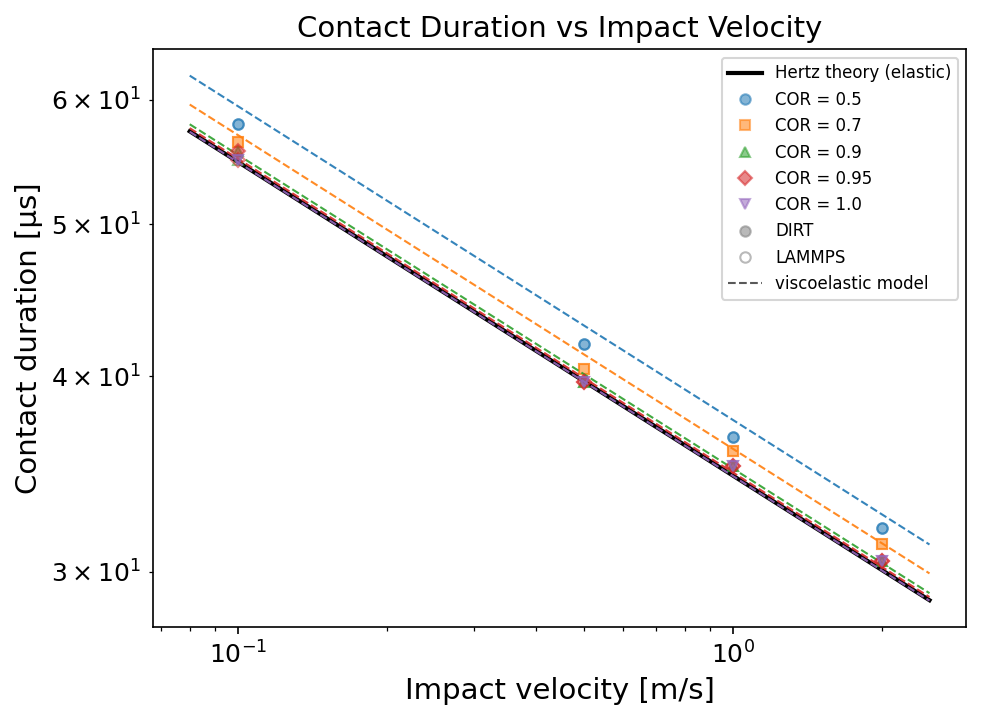
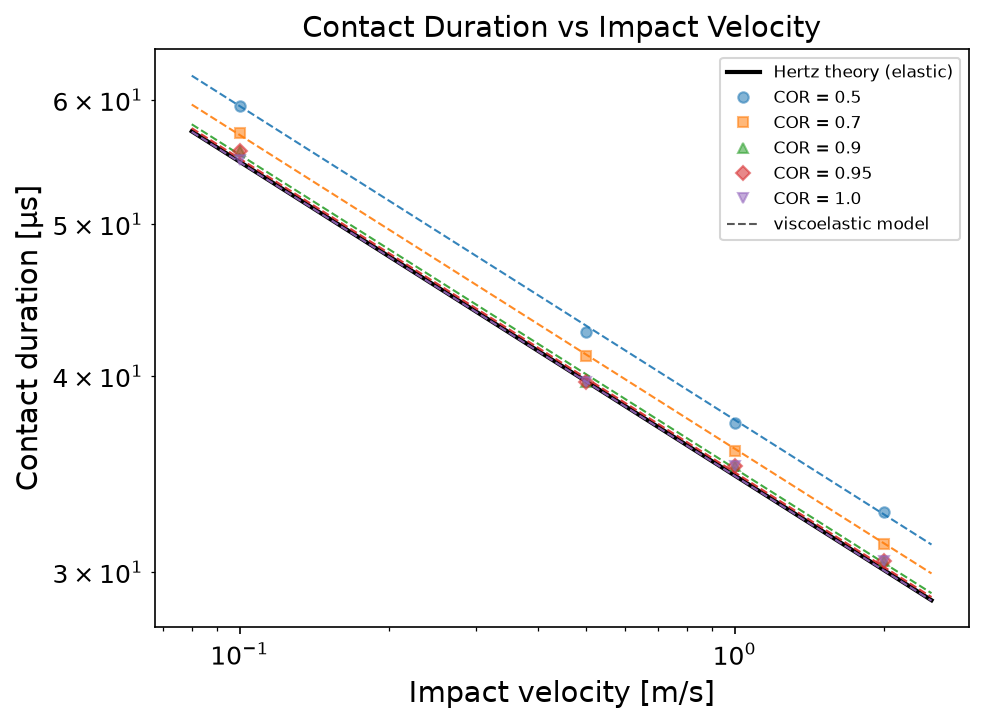
benchmarks: pass precision-double in sweep.py drivers
The sweep.py drivers build with --no-default-features (to drop MPI for
single-process runs), which also dropped dirt's default precision-double, so
soil_core compiled with no precision feature and failed (a latent issue masked
before by mixed github/gitea deps pulling soil_core with its default features).
Restore precision-double explicitly across all 23 benchmark drivers.

Verified: bench_hertz_rebound runs end-to-end, 46/46 checks PASS.

Changed region(s): [[0.0, 0.0611, 1.0, 0.9167], [0.3058, 0.0, 1.0, 0.4278], [0.3976, 0.9472, 0.7339, 0.9778]]

diff --git a/examples/bench_oblique_impact/sweep.py b/examples/bench_oblique_impact/sweep.py
@@ -245,7 +245,7 @@ def _run_dirt(cdir, trace=False):
     log = os.path.join(cdir, "run.log")
     with open(log, "w") as lf:
         proc = subprocess.run(
-            ["cargo", "run", "--release", "--example", EXAMPLE, "--no-default-features", "--", config],
+            ["cargo", "run", "--release", "--example", EXAMPLE, "--no-default-features", "--features", "precision-double", "--", config],
             cwd=REPO_ROOT, stdout=lf, stderr=subprocess.STDOUT, env=env,
         )
     if proc.returncode != 0 or not os.path.isfile(res):
@@ -333,7 +333,7 @@ def _write_csv(path, fields, rows):
 def start():
     os.makedirs(DATA_DIR, exist_ok=True)
     print(f"Building {EXAMPLE} (release)...", flush=True)
-    subprocess.run(["cargo", "build", "--release", "--example", EXAMPLE, "--no-default-features"],
+    subprocess.run(["cargo", "build", "--release", "--example", EXAMPLE, "--no-default-features", "--features", "precision-double"],
                    cwd=REPO_ROOT, check=True)
 
     lammps = find_lammps()

diff --git a/examples/bench_fiber_crossover/sweep.py b/examples/bench_fiber_crossover/sweep.py
@@ -248,7 +248,7 @@ def _run_dirt(cdir):
     with open(log, "w") as lf:
         proc = subprocess.run(
             ["cargo", "run", "--release", "--example", EXAMPLE,
-             "--no-default-features", "--", config],
+             "--no-default-features", "--features", "precision-double", "--", config],
             cwd=REPO_ROOT, stdout=lf, stderr=subprocess.STDOUT,
         )
     if proc.returncode != 0 or not os.path.isfile(res):
@@ -283,7 +283,7 @@ def start():
     os.makedirs(DATA_DIR, exist_ok=True)
     print(f"Building {EXAMPLE} (release)...", flush=True)
     subprocess.run(["cargo", "build", "--release", "--example", EXAMPLE,
-                    "--no-default-features"], cwd=REPO_ROOT, check=True)
+                    "--no-default-features", "--features", "precision-double"], cwd=REPO_ROOT, check=True)
 
     if find_lammps():
         print("LAMMPS found but not used by this benchmark (theory-only validation).")

diff --git a/examples/SPH_glass_sphere_calibration/03_angle_of_repose/sweep.py b/examples/SPH_glass_sphere_calibration/03_angle_of_repose/sweep.py
@@ -510,7 +510,7 @@ def _run_dirt(cdir):
     with open(log, "w") as lf:
         proc = subprocess.run(
             ["cargo", "run", "--release", "--example", EXAMPLE,
-             "--no-default-features", "--", config],
+             "--no-default-features", "--features", "precision-double", "--", config],
             cwd=REPO_ROOT, stdout=lf, stderr=subprocess.STDOUT,
         )
     if proc.returncode != 0 or not os.path.isfile(res):
@@ -522,7 +522,7 @@ def start():
     os.makedirs(DATA_DIR, exist_ok=True)
     print(f"Building {EXAMPLE} (release)...", flush=True)
     subprocess.run(["cargo", "build", "--release", "--example", EXAMPLE,
-                    "--no-default-features"], cwd=REPO_ROOT, check=True)
+                    "--no-default-features", "--features", "precision-double"], cwd=REPO_ROOT, check=True)
 
     print("LAMMPS: disabled for this calibration — running DIRT only.")
 

diff --git a/examples/bench_rolling_decay/sweep.py b/examples/bench_rolling_decay/sweep.py
@@ -290,7 +290,7 @@ def _run_dirt(mu_r):
     with open(log, "w") as lf:
         proc = subprocess.run(
             ["cargo", "run", "--release", "--example", EXAMPLE,
-             "--no-default-features", "--", config],
+             "--no-default-features", "--features", "precision-double", "--", config],
             cwd=REPO_ROOT, stdout=lf, stderr=subprocess.STDOUT,
         )
     if proc.returncode != 0 or not os.path.isfile(res):
@@ -361,7 +361,7 @@ def start():
     os.makedirs(DATA_DIR, exist_ok=True)
     print(f"Building {EXAMPLE} (release)...", flush=True)
     subprocess.run(["cargo", "build", "--release", "--example", EXAMPLE,
-                    "--no-default-features"], cwd=REPO_ROOT, check=True)
+                    "--no-default-features", "--features", "precision-double"], cwd=REPO_ROOT, check=True)
 
     lammps = find_lammps()
     print(f"LAMMPS: {lammps}" if lammps else

diff --git a/examples/bench_sliding_friction/sweep.py b/examples/bench_sliding_friction/sweep.py
@@ -245,7 +245,7 @@ def _run_dirt(cdir):
     with open(log, "w") as lf:
         proc = subprocess.run(
             ["cargo", "run", "--release", "--example", EXAMPLE,
-             "--no-default-features", "--", config],
+             "--no-default-features", "--features", "precision-double", "--", config],
             cwd=REPO_ROOT, stdout=lf, stderr=subprocess.STDOUT,
         )
     if proc.returncode != 0 or not os.path.isfile(res):
@@ -257,7 +257,7 @@ def start():
     os.makedirs(DATA_DIR, exist_ok=True)
     print(f"Building {EXAMPLE} (release)...", flush=True)
     subprocess.run(["cargo", "build", "--release", "--example", EXAMPLE,
-                    "--no-default-features"], cwd=REPO_ROOT, check=True)
+                    "--no-default-features", "--features", "precision-double"], cwd=REPO_ROOT, check=True)
 
     lammps = find_lammps()
     print(f"LAMMPS: {lammps}" if lammps else

diff --git a/examples/bench_angle_of_repose/sweep.py b/examples/bench_angle_of_repose/sweep.py
@@ -549,7 +549,7 @@ def _run_dirt(cdir):
     with open(log, "w") as lf:
         proc = subprocess.run(
             ["cargo", "run", "--release", "--example", EXAMPLE,
-             "--no-default-features", "--", config],
+             "--no-default-features", "--features", "precision-double", "--", config],
             cwd=REPO_ROOT, stdout=lf, stderr=subprocess.STDOUT,
         )
     if proc.returncode != 0 or not os.path.isfile(res):
@@ -561,7 +561,7 @@ def start():
     os.makedirs(DATA_DIR, exist_ok=True)
     print(f"Building {EXAMPLE} (release)...", flush=True)
     subprocess.run(["cargo", "build", "--release", "--example", EXAMPLE,
-                    "--no-default-features"], cwd=REPO_ROOT, check=True)
+                    "--no-default-features", "--features", "precision-double"], cwd=REPO_ROOT, check=True)
 
     lammps = find_lammps()
     print(f"LAMMPS: {lammps}" if lammps

diff --git a/examples/bench_hertz_rebound/sweep.py b/examples/bench_hertz_rebound/sweep.py
@@ -350,7 +350,7 @@ def start():
 
     print(f"Building {EXAMPLE} (release)...", flush=True)
     subprocess.run(
-        ["cargo", "build", "--release", "--example", EXAMPLE, "--no-default-features"],
+        ["cargo", "build", "--release", "--example", EXAMPLE, "--no-default-features", "--features", "precision-double"],
         cwd=REPO_ROOT, check=True,
     )
 
@@ -374,7 +374,7 @@ def start():
             with open(dirt_log, "w") as log:
                 proc = subprocess.run(
                     ["cargo", "run", "--release", "--example", EXAMPLE,
-                     "--no-default-features", "--", config],
+                     "--no-default-features", "--features", "precision-double", "--", config],
                     cwd=REPO_ROOT, stdout=log, stderr=subprocess.STDOUT,
                 )
             dirt_csv = os.path.join(cdir, "data", "rebound_results.csv")

diff --git a/examples/bench_plate_sinkage/sweep.py b/examples/bench_plate_sinkage/sweep.py
@@ -394,7 +394,7 @@ def _run_dirt(cdir):
     with open(log, "w") as lf:
         proc = subprocess.run(
             ["cargo", "run", "--release", "--example", EXAMPLE,
-             "--no-default-features", "--", config],
+             "--no-default-features", "--features", "precision-double", "--", config],
             cwd=REPO_ROOT, stdout=lf, stderr=subprocess.STDOUT,
         )
     if proc.returncode != 0 or not os.path.isfile(res):
@@ -506,7 +506,7 @@ def start():
     os.makedirs(DATA_DIR, exist_ok=True)
     print(f"Building {EXAMPLE} (release)...", flush=True)
     subprocess.run(
-        ["cargo", "build", "--release", "--example", EXAMPLE, "--no-default-features"],
+        ["cargo", "build", "--release", "--example", EXAMPLE, "--no-default-features", "--features", "precision-double"],
         cwd=REPO_ROOT, check=True,
     )
 

diff --git a/examples/SPH_glass_sphere_calibration/05_cooling_dissipation/sweep.py b/examples/SPH_glass_sphere_calibration/05_cooling_dissipation/sweep.py
@@ -179,7 +179,7 @@ def start():
     os.makedirs(DATA_DIR, exist_ok=True)
     print(f"Building {EXAMPLE} (release)...", flush=True)
     subprocess.run(
-        ["cargo", "build", "--release", "--example", EXAMPLE, "--no-default-features"],
+        ["cargo", "build", "--release", "--example", EXAMPLE, "--no-default-features", "--features", "precision-double"],
         cwd=REPO_ROOT, check=True,
     )
 
@@ -190,7 +190,7 @@ def start():
     with open(log, "w") as lf:
         proc = subprocess.run(
             ["cargo", "run", "--release", "--example", EXAMPLE,
-             "--no-default-features", "--", CONFIG],
+             "--no-default-features", "--features", "precision-double", "--", CONFIG],
             cwd=REPO_ROOT, stdout=lf, stderr=subprocess.STDOUT,
         )
     if proc.returncode != 0 or not os.path.isfile(DIRT_CSV):

diff --git a/examples/bench_clump_haff_cooling/sweep.py b/examples/bench_clump_haff_cooling/sweep.py
@@ -211,7 +211,7 @@ def start():
     os.makedirs(DATA_DIR, exist_ok=True)
     print(f"Building {EXAMPLE} (release)...", flush=True)
     subprocess.run(
-        ["cargo", "build", "--release", "--example", EXAMPLE, "--no-default-features"],
+        ["cargo", "build", "--release", "--example", EXAMPLE, "--no-default-features", "--features", "precision-double"],
         cwd=REPO_ROOT, check=True,
     )
 
@@ -222,7 +222,7 @@ def start():
     with open(log, "w") as lf:
         proc = subprocess.run(
             ["cargo", "run", "--release", "--example", EXAMPLE,
-             "--no-default-features", "--", CONFIG],
+             "--no-default-features", "--features", "precision-double", "--", CONFIG],
             cwd=REPO_ROOT, stdout=lf, stderr=subprocess.STDOUT,
         )
     if proc.returncode != 0 or not os.path.isfile(DIRT_CSV):

diff --git a/examples/bench_rod_haff_cooling/sweep.py b/examples/bench_rod_haff_cooling/sweep.py
@@ -212,7 +212,7 @@ def start():
     os.makedirs(DATA_DIR, exist_ok=True)
     print(f"Building {EXAMPLE} (release)...", flush=True)
     subprocess.run(
-        ["cargo", "build", "--release", "--example", EXAMPLE, "--no-default-features"],
+        ["cargo", "build", "--release", "--example", EXAMPLE, "--no-default-features", "--features", "precision-double"],
         cwd=REPO_ROOT, check=True,
     )
 
@@ -223,7 +223,7 @@ def start():
     with open(log, "w") as lf:
         proc = subprocess.run(
             ["cargo", "run", "--release", "--example", EXAMPLE,
-             "--no-default-features", "--", CONFIG],
+             "--no-default-features", "--features", "precision-double", "--", CONFIG],
             cwd=REPO_ROOT, stdout=lf, stderr=subprocess.STDOUT,
         )
     if proc.returncode != 0 or not os.path.isfile(DIRT_CSV):

diff --git a/examples/bench_sphere_haff_cooling/sweep.py b/examples/bench_sphere_haff_cooling/sweep.py
@@ -172,7 +172,7 @@ def start():
     os.makedirs(DATA_DIR, exist_ok=True)
     print(f"Building {EXAMPLE} (release)...", flush=True)
     subprocess.run(
-        ["cargo", "build", "--release", "--example", EXAMPLE, "--no-default-features"],
+        ["cargo", "build", "--release", "--example", EXAMPLE, "--no-default-features", "--features", "precision-double"],
         cwd=REPO_ROOT, check=True,
     )
 
@@ -183,7 +183,7 @@ def start():
     with open(log, "w") as lf:
         proc = subprocess.run(
             ["cargo", "run", "--release", "--example", EXAMPLE,
-             "--no-default-features", "--", CONFIG],
+             "--no-default-features", "--features", "precision-double", "--", CONFIG],
             cwd=REPO_ROOT, stdout=lf, stderr=subprocess.STDOUT,
         )
     if proc.returncode != 0 or not os.path.isfile(DIRT_CSV):
